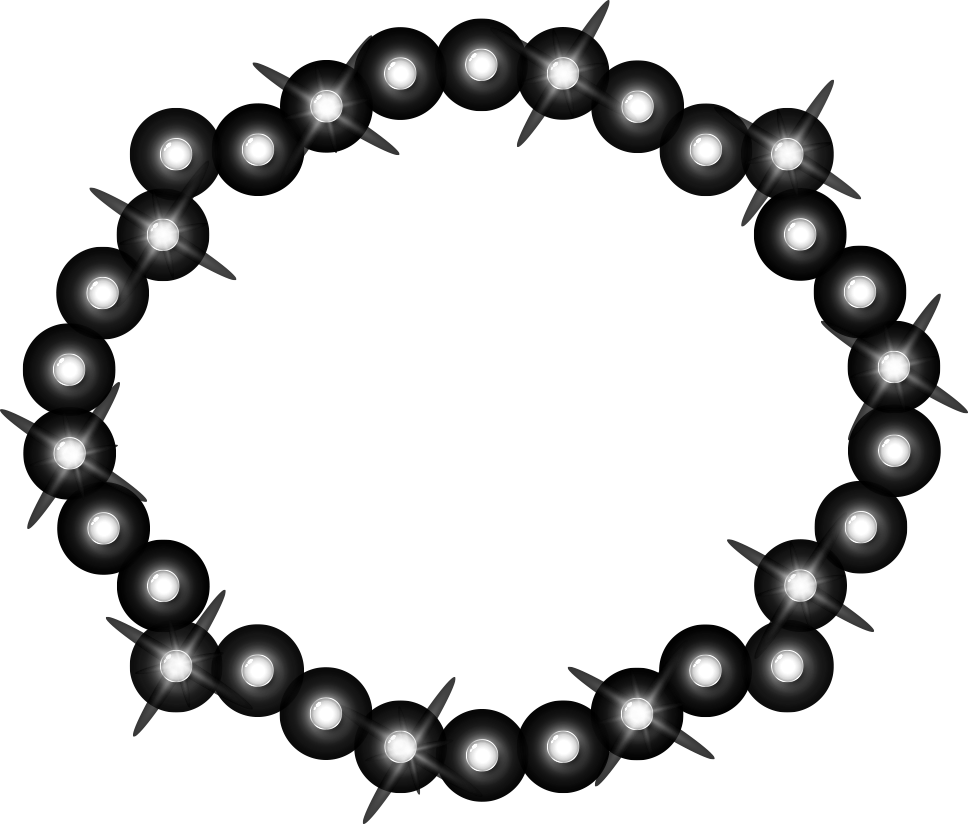
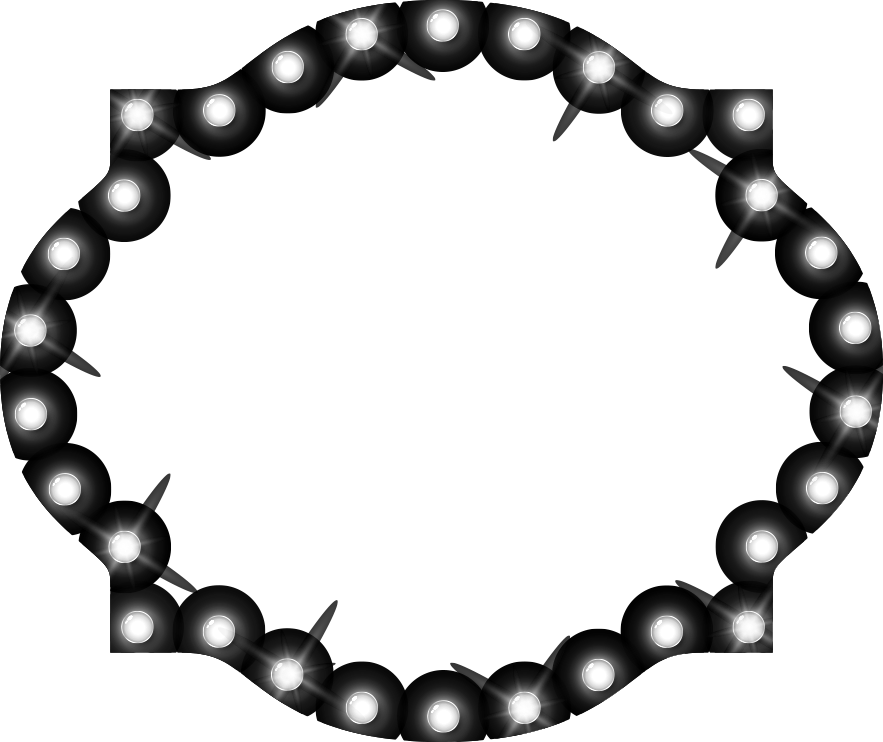
update border light

Changed region(s): [[0.0, 0.0, 1.0, 1.0]]

diff --git a/src/components/Scene/useWinAnimation.js b/src/components/Scene/useWinAnimation.js
@@ -50,20 +50,23 @@ export default function useWinAnimation() {
 
     container.addChild(wood);
 
-    const path = "assets/image/light";
+    const path = "assets/image/win-light";
     const frames = [];
     for (let i = 1; i < 4; i++) {
       const texture = PIXI.Texture.from(path + i + ".png");
+      texture.baseTexture.premultipliedAlpha = false;
       frames.push(texture);
     }
     const borderLight = new PIXI.AnimatedSprite(frames);
-    borderLight.width = 370;
-    borderLight.height = 265;
+    borderLight.width = 220;
+    borderLight.height = 160;
     borderLight.x = 0;
     borderLight.y = 0;
-    borderLight.filters = borderLight.anchor.set(0.5);
+    borderLight.anchor.set(0.5);
+
     borderLight.loop = true;
     borderLight.animationSpeed = 0.05;
+    borderLight.tint = 0xfdff5b;
     borderLight.blendMode = PIXI.BLEND_MODES.SCREEN;
 
     borderLight.play();
